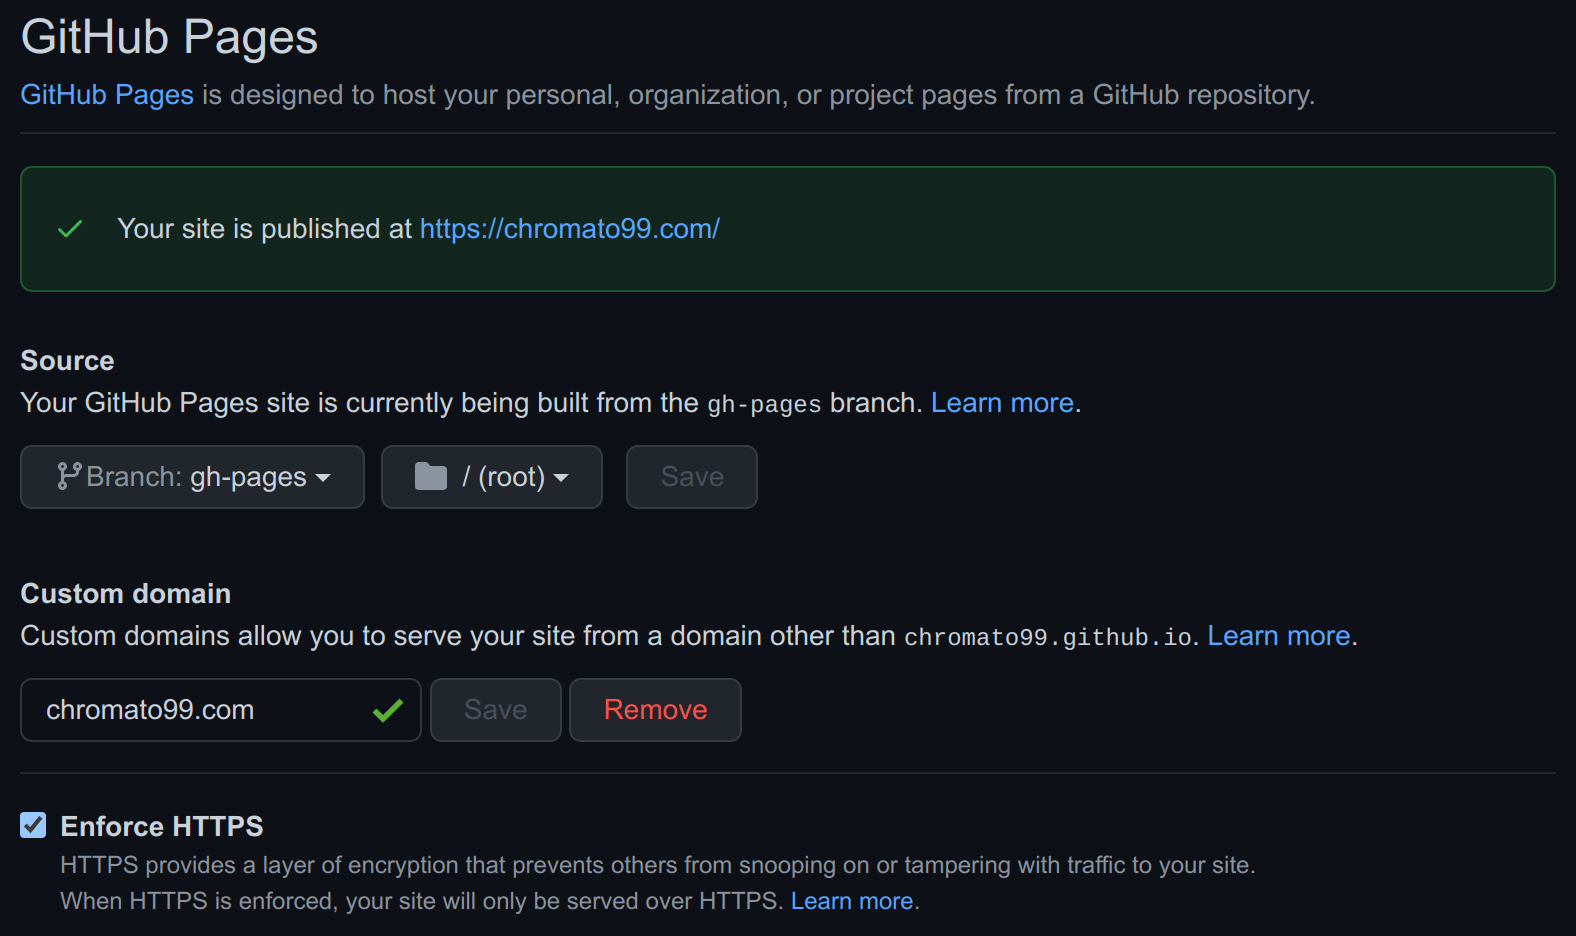
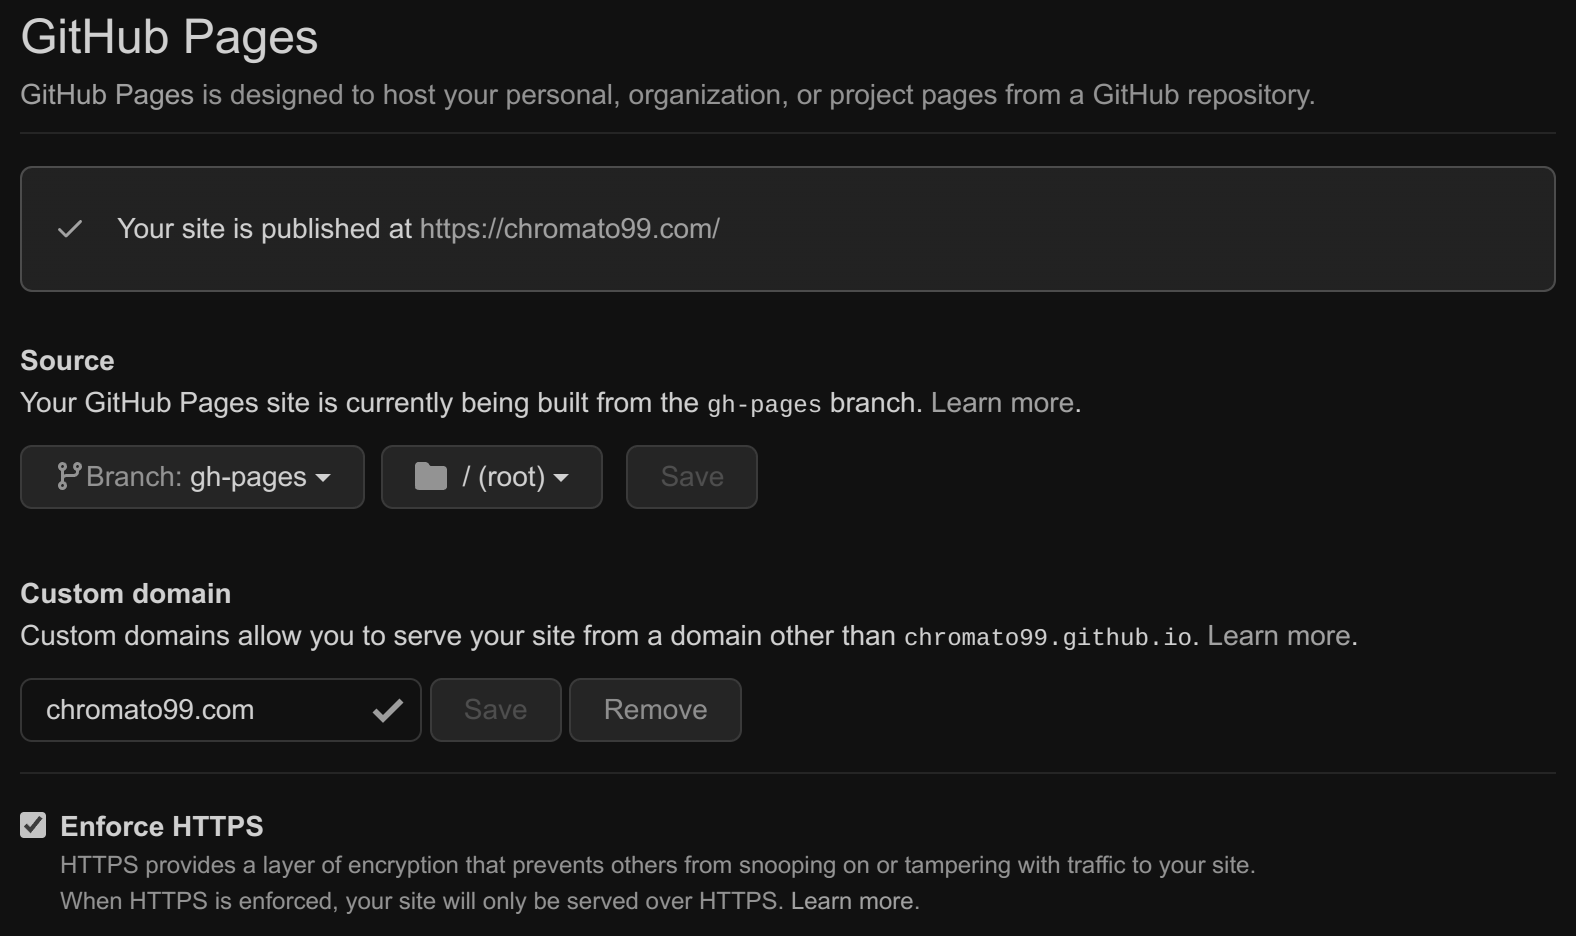
update homepage guide post

diff --git a/_posts/2022-01-16-개인-홈페이지-만들기.md b/_posts/2022-01-16-개인-홈페이지-만들기.md
@@ -86,9 +86,15 @@ bundle
 
 Custom domain 설정은 다음 링크를 참고하자. [**Managing a custom domain for your GitHub Pages site**](https://docs.github.com/en/pages/configuring-a-custom-domain-for-your-github-pages-site/managing-a-custom-domain-for-your-github-pages-site)
 
-pages가 활성화 되어 있다면 Source에서 브랜치를 gh-pages로 변경한다. 이유는 chirpy jekyll theme에 기본으로 설정되어 있는 github actions(커밋이 있을때 자동으로 실행되는 스크립트)가 gh-pages 브랜치에 생성된 페이지들을 저장하기 때문이다.
+~~pages가 활성화 되어 있다면 Source에서 브랜치를 gh-pages로 변경한다. 이유는 chirpy jekyll theme에 기본으로 설정되어 있는 github actions(커밋이 있을때 자동으로 실행되는 스크립트)가 gh-pages 브랜치에 생성된 페이지들을 저장하기 때문이다.~~
 
 ![settings-pages](/settings-pages.png)
+
+위 방식은 과거에 chirpy jekyll theme이 사용하던 방식이고 현재는 [Github Actions를 사용하는 방식](https://docs.github.com/ko/pages/getting-started-with-github-pages/configuring-a-publishing-source-for-your-github-pages-site#%EC%82%AC%EC%9A%A9%EC%9E%90-%EC%A7%80%EC%A0%95-github-actions-%EC%9B%8C%ED%81%AC%ED%94%8C%EB%A1%9C%EB%A5%BC-%EC%82%AC%EC%9A%A9%ED%95%98%EC%97%AC-%EA%B2%8C%EC%8B%9C)으로 바뀌었다.
+
+[Github Actions](https://docs.github.com/ko/actions)는 빌드, 테스트 및 배포 파이프라인을 자동화할 수 있는 CI/CD(지속적 통합 및 지속적 전달) 플랫폼으로 `.github/workflows` 디렉토리에 자동화 스크립트를 작성하면 github 서버에서 동작을 실행시켜 준다. Chirpy도 이를 사용해 웹페이지를 생성하고 배포하도록 업데이트 되었으므로 아래와 같이 github pages 설정을 해주면 된다.
+
+![settings-pages2](/settings-pages2.png)
 
 ### Publish
 
